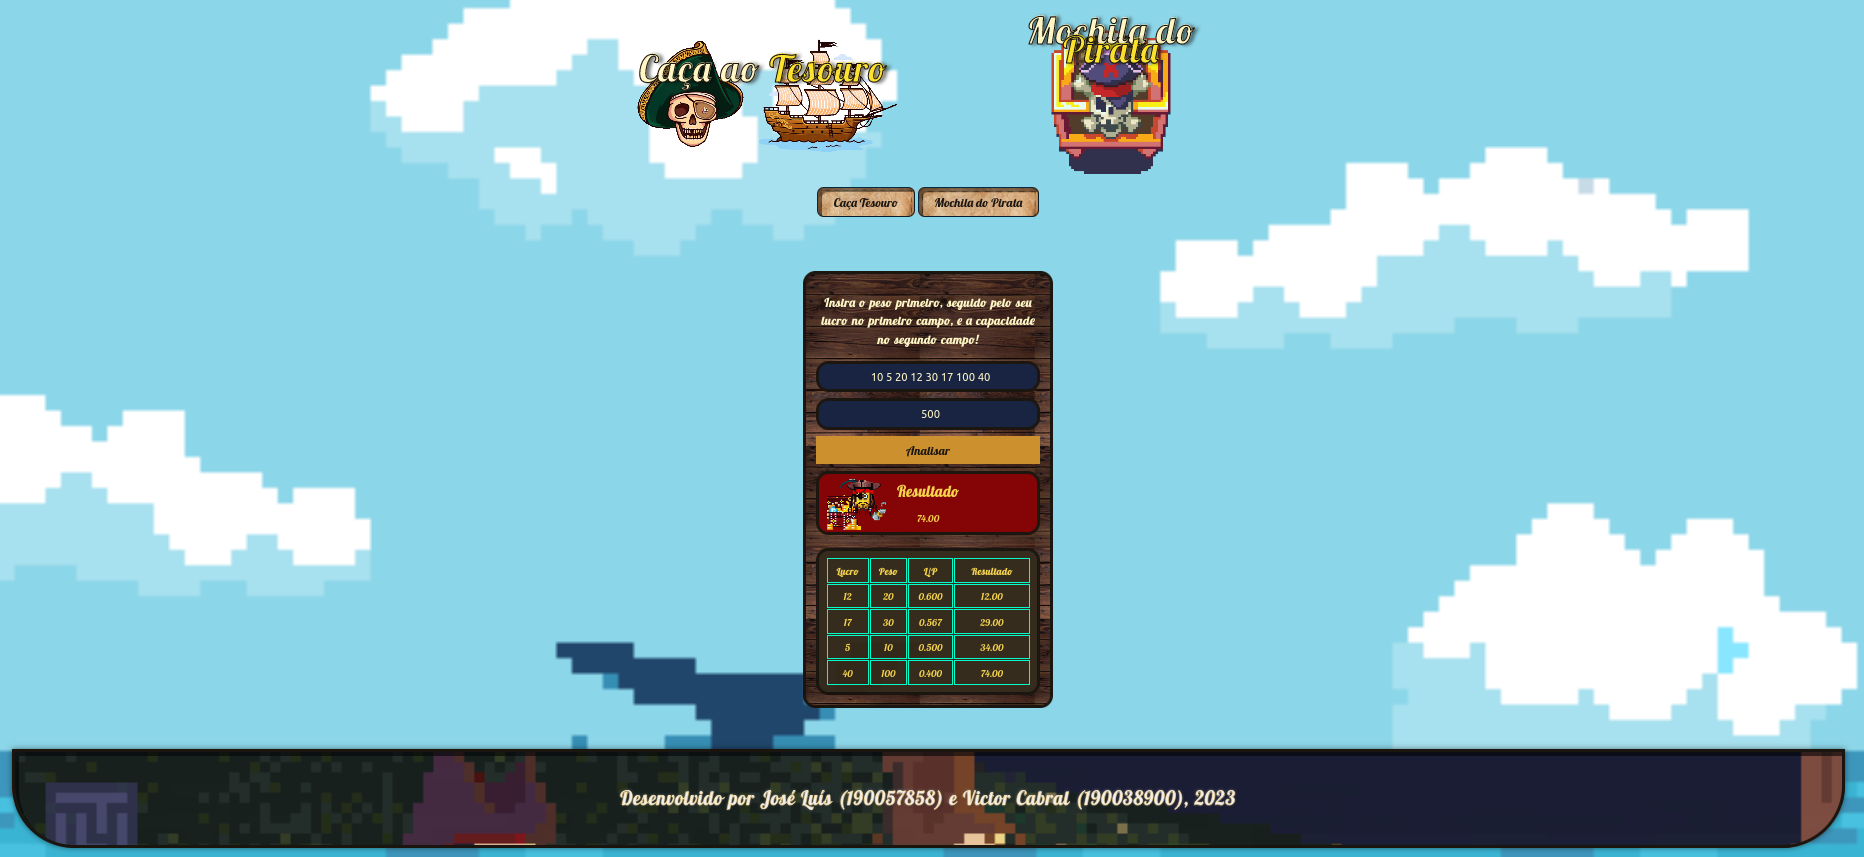
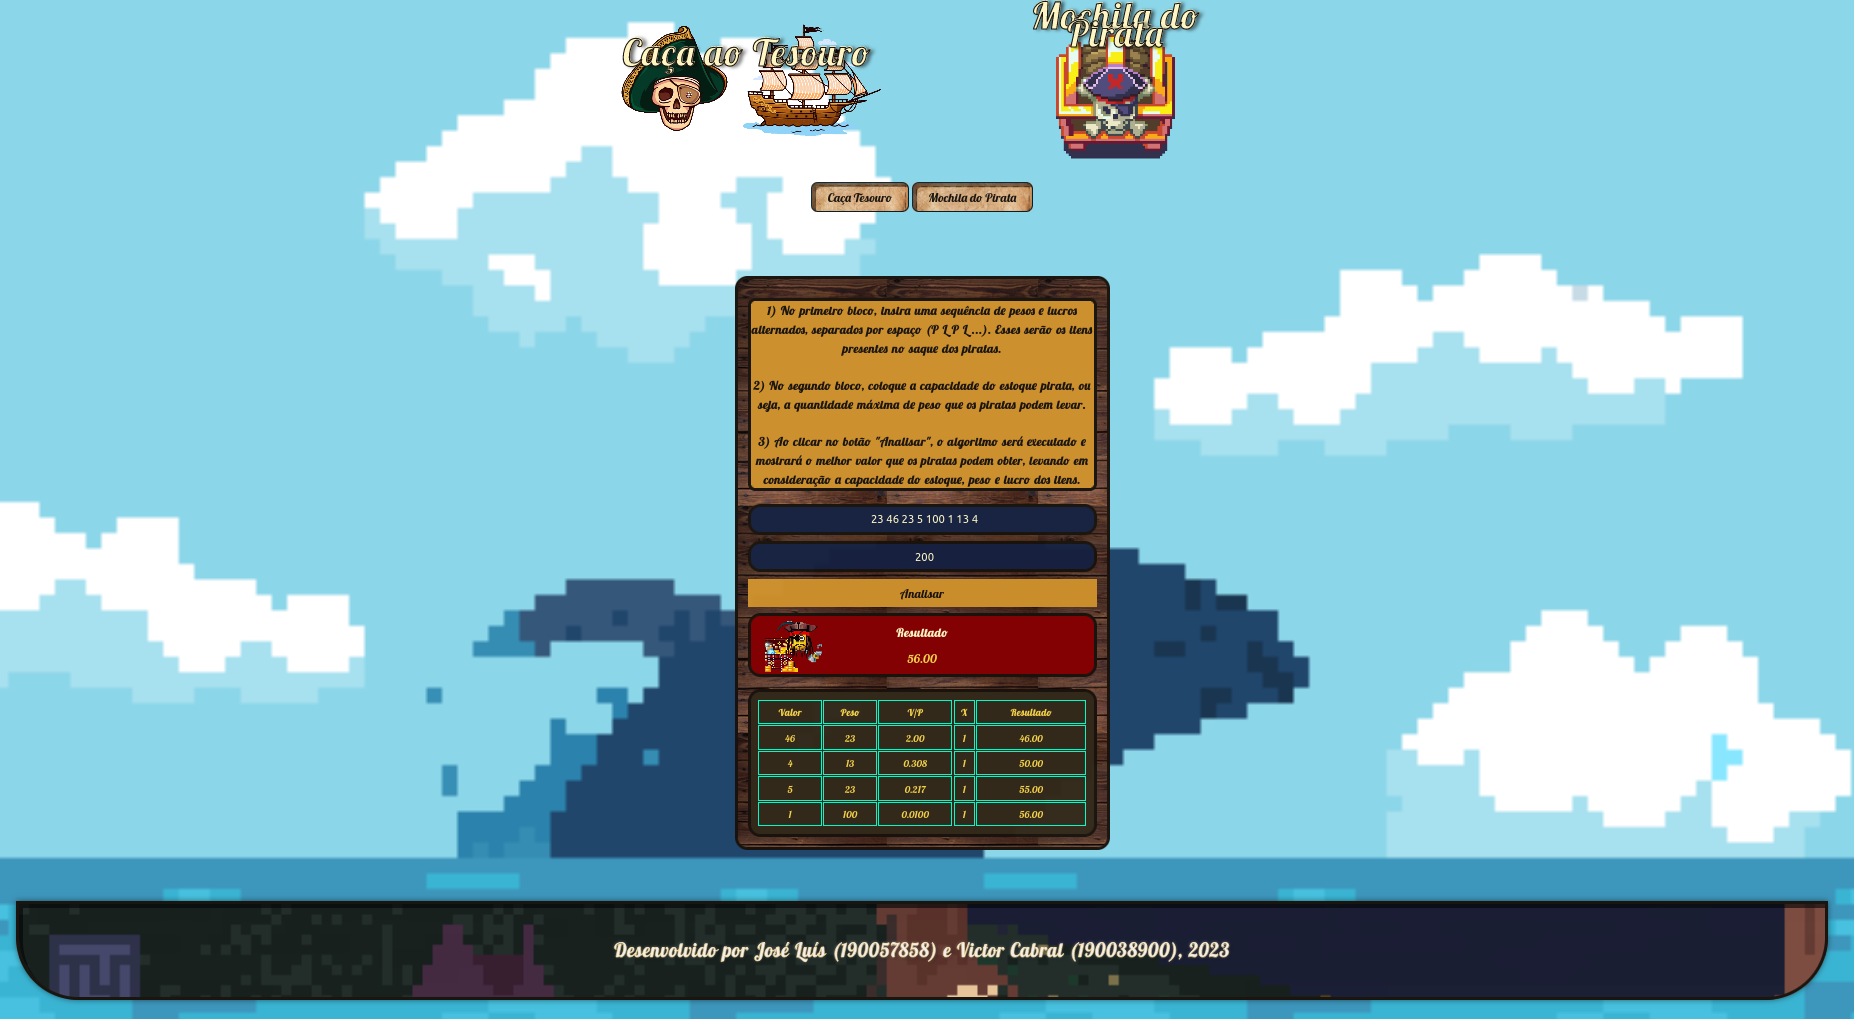
Ajustando o README

diff --git a/index.html b/index.html
@@ -15,11 +15,11 @@
 <body>
   <div class="title-div">
     <div class="box title">
-      <h1 class="title-name">Caça ao <span>Tesouro</span></h1>
+      <h2 class="title-name">Caça ao <span>Tesouro</span></h2>
     </div>
 
     <div class="box title">
-      <h1 class="title-name2">Mochila do <span>Pirata</span></h1>
+      <h2 class="title-name2">Mochila do <span>Pirata</span></h2>
     </div>
   </div>
 
@@ -78,7 +78,16 @@
 
   <div class="box2" id="div2">
     <div class="container-mochila">
-      <h1 for="guide">Insira o peso primeiro, seguido pelo seu lucro no primeiro campo, e a capacidade no segundo campo!
+      <h1 for="guide">1) No primeiro bloco, insira uma sequência de pesos e lucros alternados, separados por espaço (P L
+        P L ...). Esses serão os itens presentes no saque dos piratas.
+        <br>
+        <br>
+        2) No segundo bloco, coloque a capacidade do estoque pirata, ou seja, a quantidade máxima de peso que os piratas
+        podem levar.
+        <br>
+        <br>
+        3) Ao clicar no botão "Analisar", o algoritmo será executado e mostrará o melhor valor que os piratas podem
+        obter, levando em consideração a capacidade do estoque, peso e lucro dos itens.
       </h1>
       <div class="insert">
         <input type="text" placeholder="'peso valor peso valor...'" id="items">
@@ -95,6 +104,7 @@
             <th>Valor</th>
             <th>Peso</th>
             <th>V/P</th>
+            <th>X</th>
             <th>Resultado</th>
           </tr>
         </thead>

diff --git a/style.css b/style.css
@@ -406,7 +406,7 @@ table,
 
 .container-mochila {
   margin-bottom: 40px;
-  max-width: 400px;
+  max-width: 600px;
   padding: 20px;
   background-image: url(assets/wood.jpg);
   background-size: auto 40%;
@@ -416,6 +416,17 @@ table,
 }
 
 h1 {
+  text-align: center;
+  margin-bottom: 20px;
+  font-size: 20px;
+  border: 6px solid var(--dark-brown);
+  border-radius: 10px;
+  background-color: #cd8f2b;
+  color: var(--dark-brown);
+  line-height: 30px;
+}
+
+h2 {
   text-align: center;
   margin-bottom: 20px;
   font-size: 20px;
@@ -457,9 +468,8 @@ input {
   padding: 10px;
   border: 6px solid var(--dark-brown);
   border-radius: 20px;
-  font-size: 16px;
+  font-size: 20px;
 }
-
 
 .output h2 {
   margin: 0;

diff --git a/script.js b/script.js
@@ -486,7 +486,7 @@ document.getElementById('runButton').addEventListener('click', function() {
     } else {
       resultado += lucro[i] * x[i];
       var newRow = document.createElement('tr');
-      newRow.innerHTML = '<td>' + lucro[i] + '</td><td>' + peso[i] + '</td><td>' + fracao[i].toPrecision(3) + '</td><td>' + resultado.toPrecision(4) + '</td>';
+      newRow.innerHTML = '<td>' + lucro[i] + '</td><td>' + peso[i] + '</td><td>' + fracao[i].toPrecision(3) + '</td><td>' + (x[i] % 1 === 0 ? x[i] : x[i].toPrecision(3)) + '</td><td>' + resultado.toPrecision(4) + '</td>';
       tableBody.appendChild(newRow);
     }
   }

diff --git a/README.md b/README.md
@@ -32,7 +32,7 @@ Vídeo contendo explicação das modificações feitas para a entrega da unidade
 (Para melhor contexto do projeto em geral assistir o vídeo de apresentação complementar).
 
 <a href="https://www.youtube.com/watch?v=q8ADh35hU58" target="_blank">
-  <img src="assets/link_video3.png" alt="Apresentação">
+  <img src="assets/print2-entrega3.png" alt="Apresentação">
 </a>
 
 ## Vídeo de Apresentação Complementar (Grafos 1 e 2)
